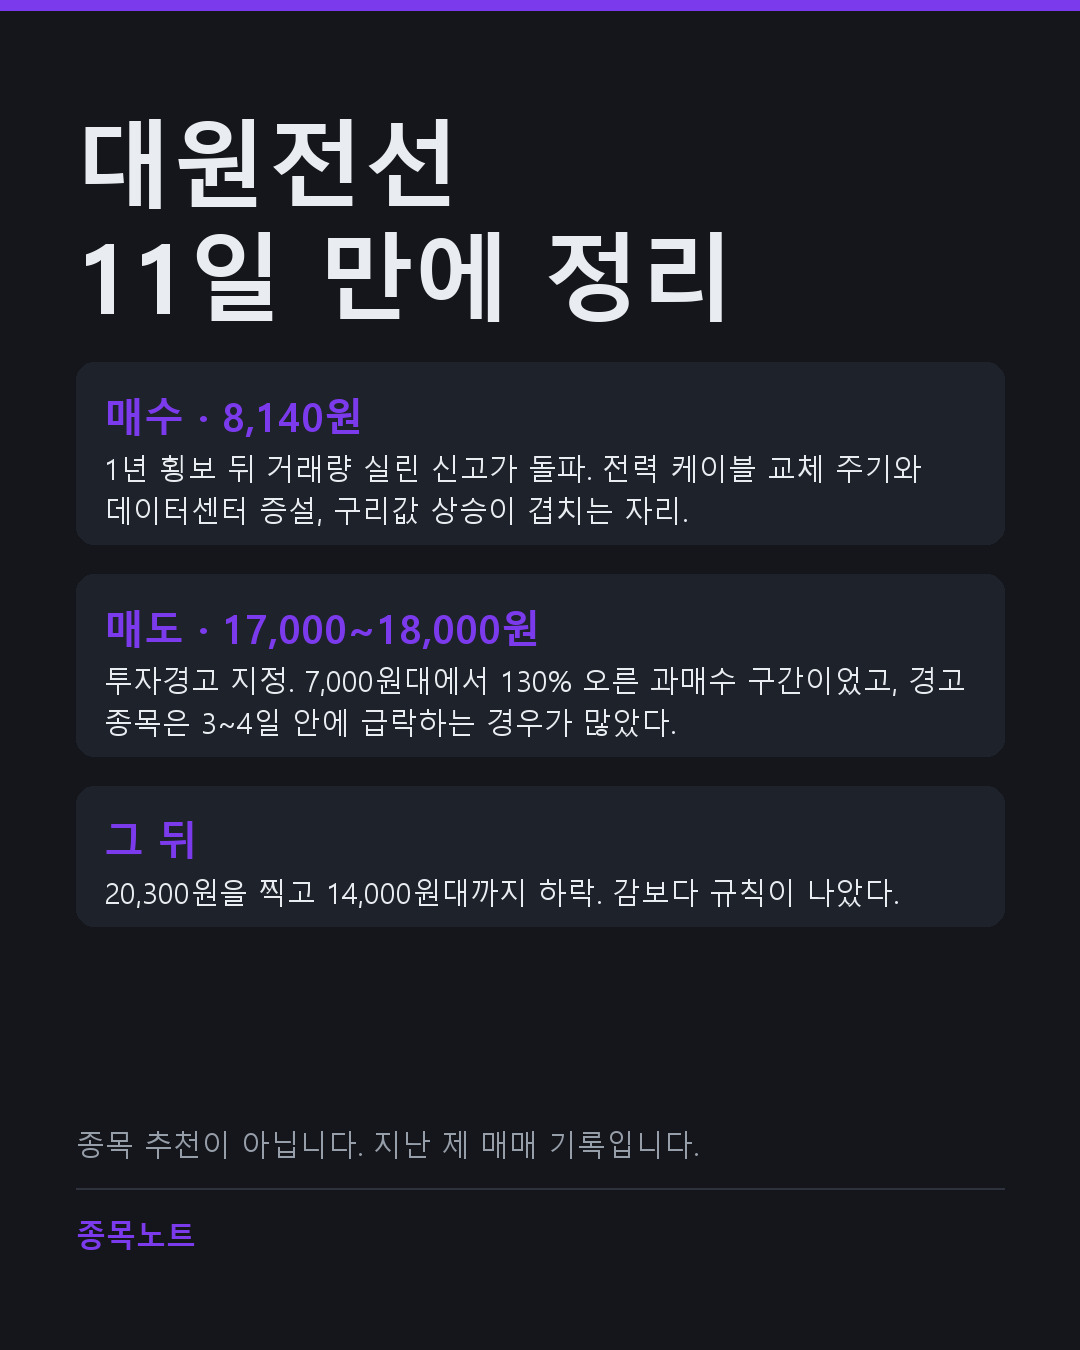
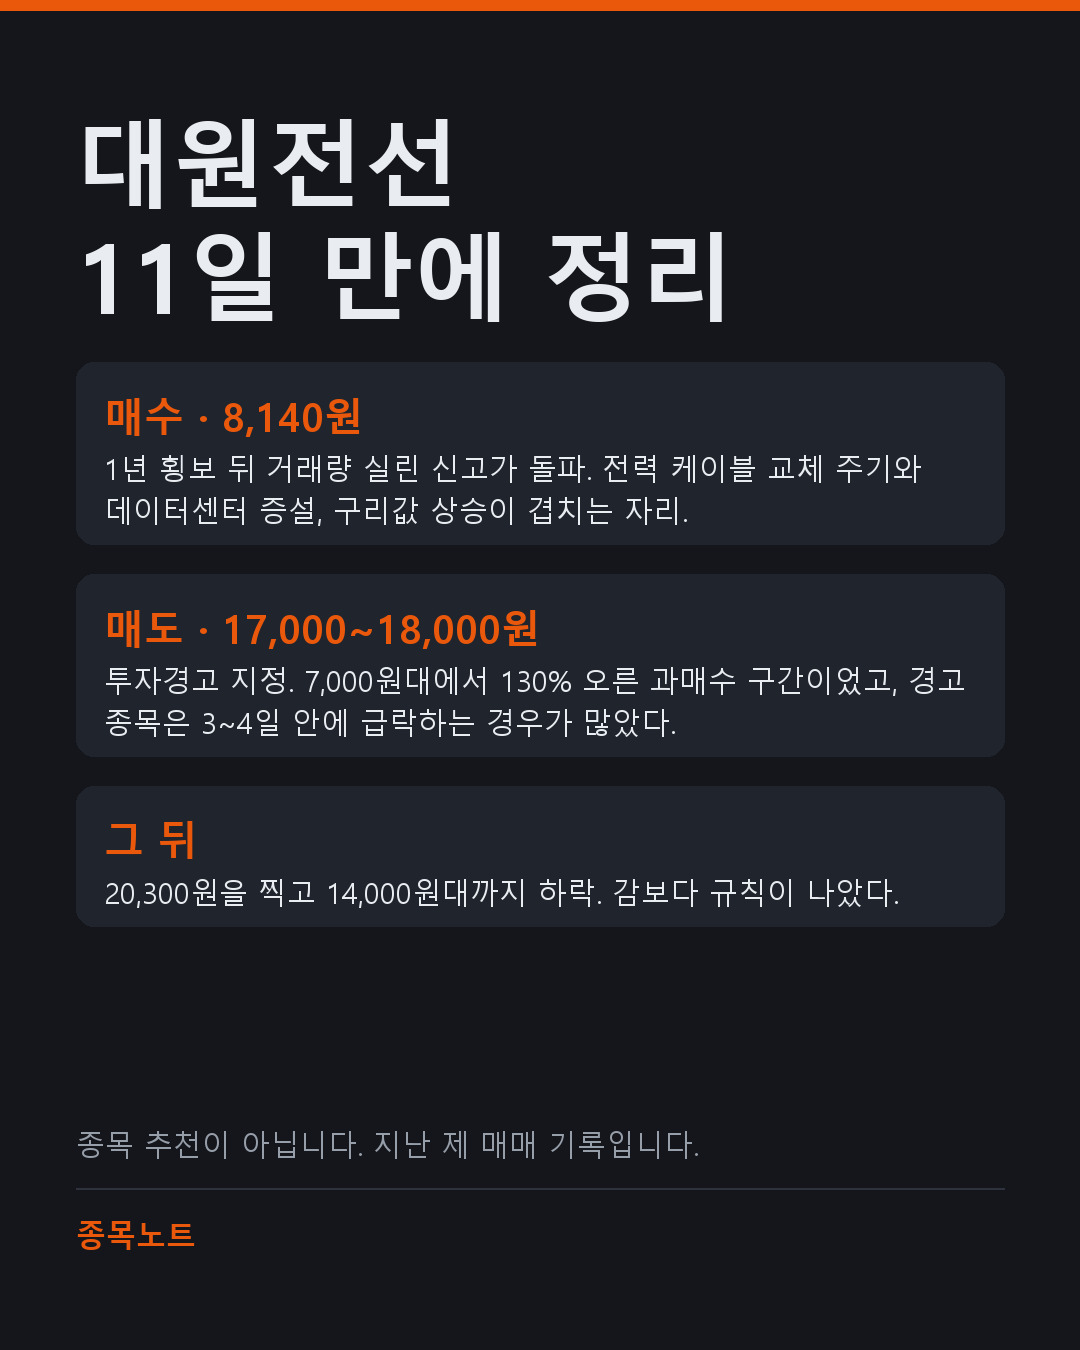
fix: 태성 수익률을 주문내역에 맞춘다
증권사 주문내역에서 나온 실제 값이다.

  매수  2024-01-19 500주 @4,350 + 2024-02-20 130주 @4,200 → 평균 4,319원
  매도  2024-06-13 630주 @11,540                          → +167%
  그 뒤 2024-10-22 고가 43,832원                          → 판 자리 대비 +280%

글에는 "200% 먹고 팔았는데 400% 더 갔다"로 적혀 있었다. 이야기는 맞지만
숫자가 부풀려져 있었다. 이 계정은 숫자를 들고 오는 것이 전부라, 확인할 수
있는 숫자가 틀려 있으면 나머지도 같이 의심받는다.

"2025년 1월 복기"도 틀렸다. 매매는 2024년 1~6월이다. 2023년과 2025년의
같은 날짜는 가격대가 전혀 안 맞아 연도가 하나로 좁혀졌다.

고친 곳: 쓰레드 대기열 글, 블로그 고정글, 카드 문구, 키트 CLAUDE.md.

카드를 다시 뽑으면서 여섯 장이 함께 바뀌었다. 강조색이 보라에서 주황으로
바뀐 뒤로 다시 뽑은 적이 없어서다. 같은 피드에 보라와 주황이 번갈아
올라가면 밝기보다 그게 먼저 "다른 계정"으로 읽힌다.

⚠ 09-15 에 이미 나간 쓰레드 글은 고칠 수 없다. 쓰레드는 올린 뒤 몇 분이
지나면 수정이 막힌다. 앞으로 나갈 것만 맞다.

diff --git a/scripts/make_blog_cards.py b/scripts/make_blog_cards.py
@@ -48,7 +48,7 @@ CARDS = {
         "footer": FOOTER,
     },
     "blog-taesung.jpg": {
-        "headline": ["태성", "팔고 나서 400%"],
+        "headline": ["태성", "팔고 나서 280%"],
         "sections": [
             {
                 "heading": "매수",
@@ -56,7 +56,7 @@ CARDS = {
             },
             {
                 "heading": "매도",
-                "body": "200% 오른 뒤 힘이 빠졌다고 보고, 더 좋아 보이는 종목으로 "
+                "body": "167% 오른 뒤 힘이 빠졌다고 보고, 더 좋아 보이는 종목으로 "
                         "갈아타려고 매도.",
             },
             {
